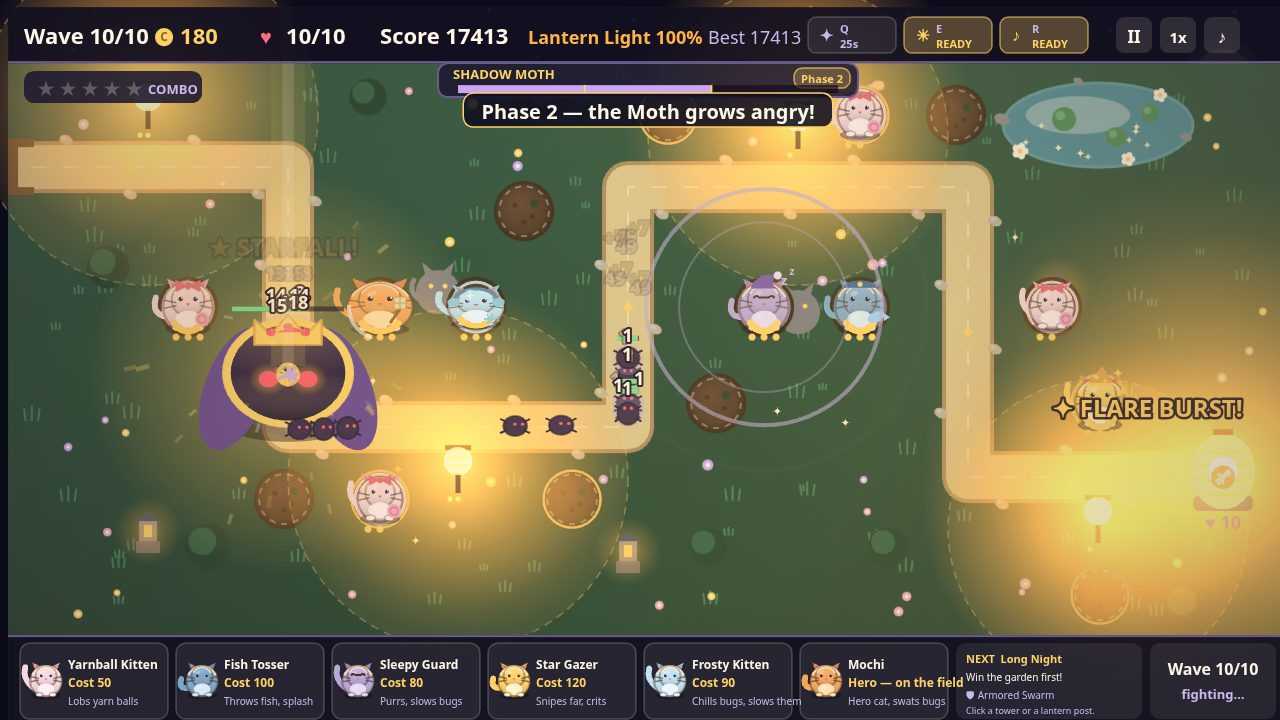
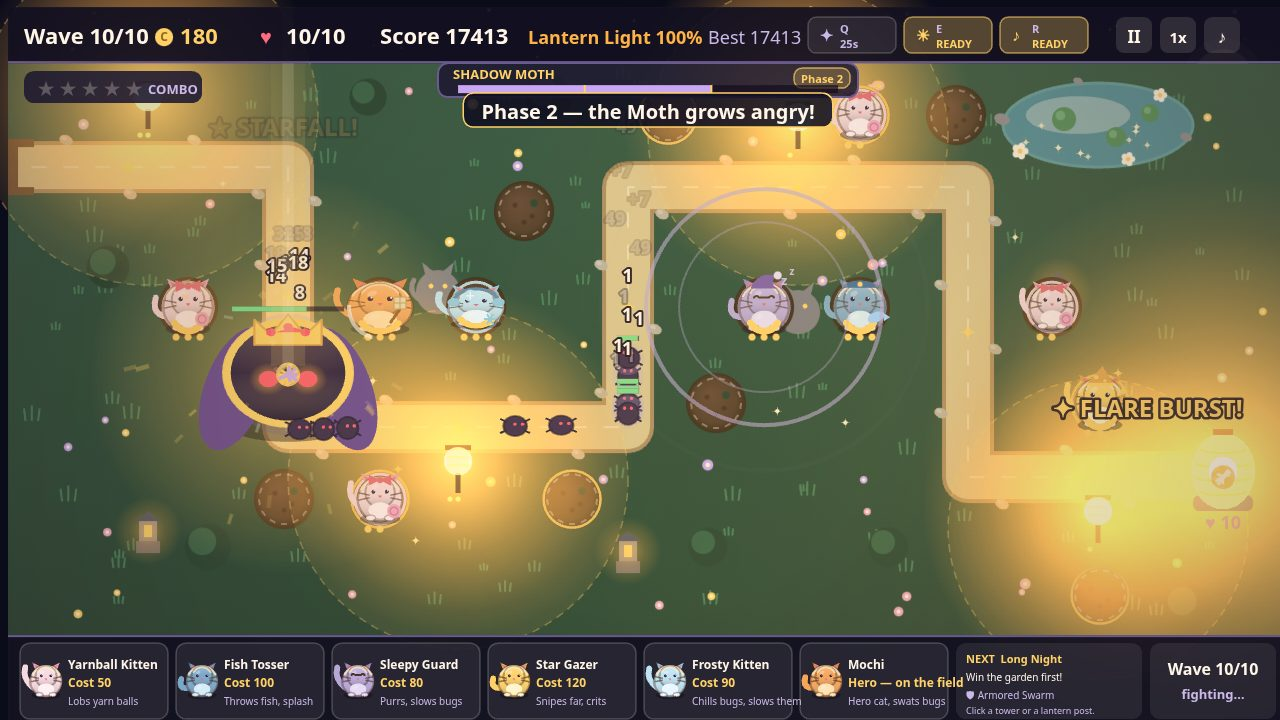
Mochi's Lantern Garden v4 FIX: festival win screen, damage-number destack, comment trims

diff --git a/game/src/render.js b/game/src/render.js
@@ -1,9 +1,5 @@
-// Drawing only: the world's state and the current screen in, pixels out. The
-// 1280x720 playfield is scaled to fit the window and centred. Warm lantern glow
-// against the cool night, round cute shapes, thick outlines — crispness comes
-// from light and geometry, not saturation. Every tower and bug type reads at a
-// glance: each cat has its own body colour, hat and held item, each bug its own
-// size, colour and shape, and the boss carries its own rim light.
+// Drawing only: world state in, pixels out. Warm lantern glow on cool night;
+// crispness from light and geometry, not saturation.
 import { ABILITIES, ABILITY_ORDER, DIFFICULTIES, FIELD, FONT, LAYOUT, MAX_POST_LEVEL, MUTATORS, PALETTE, POST_LEVELS, POST_UPGRADE_COST } from './config.js';
 import { LANTERN, LANTERN_POSTS, PATH_POINTS, PATH_WIDTH, POND, postGlowRadius } from './garden.js';
 import { PHASE_BUILD, PHASE_WAVE } from './world.js';
@@ -38,11 +34,7 @@ export function createRenderer(canvas) {
   const livesLabel = cachedLabel('');
   const scoreLabel = cachedLabel('Score ');
   const lightLabel = cachedLabel('Lantern Light ');
-  // Performance (v4, Lead's call): the headless judge runs on software
-  // rendering, where a fresh radial gradient per glow per frame cost us
-  // 3.7 fps and 0.34x sim speed — a losing entry before it is even judged.
-  // Every gradient below is built ONCE and reused; glows are one pre-rendered
-  // sprite stamped with drawImage. Same look, a fraction of the frame cost.
+  // Perf: gradients built once and reused; glows are one stamped sprite.
   const glowSprite = (() => {
     const s = document.createElement('canvas');
     s.width = 256;
@@ -1632,9 +1624,7 @@ export function createRenderer(canvas) {
     drawEnemies(world);
     drawProjectiles(world);
     drawEffects(world);
-    // The festival wash and the flash overlay: gold over the field only (the
-    // HUD is drawn after, so it stays readable). Thinned in v4 — a wash that
-    // is too strong turns the whole frame into pastel haze.
+    // Festival wash + flash: gold over the field only; HUD stays readable.
     if (festival > 0) {
       context.save();
       context.globalAlpha = festival;

diff --git a/game/src/effects.js b/game/src/effects.js
@@ -1,7 +1,4 @@
-// Juice: pooled particles, floating damage numbers, expanding purr rings, swat arcs
-// and trauma-based screen shake. All pools are allocated once at boot; nothing here
-// allocates per frame. Shake is trauma squared, so light hits barely move and the
-// boss's hits punch.
+// Juice: pooled particles, floating numbers, rings, arcs, trauma shake.
 import { FIELD, POOL } from './config.js';
 
 export function createEffects(random) {
@@ -56,18 +53,25 @@ export function createEffects(random) {
   }
 
   function spawnText(x, y, text, color, size) {
+    const big = (size ?? 14) >= 20;
+    let live = 0;
+    for (let i = 0; i < texts.length; i += 1) if (texts[i].active) live += 1;
+    if (!big && live >= 40) return;
     let slot = null;
     for (let i = 0; i < texts.length; i += 1) {
       if (!texts[i].active) { slot = texts[i]; break; }
     }
     if (slot === null) slot = texts[0];
     slot.active = true;
-    // Spread same-target numbers so they never stack into one blob, and clamp
-    // long callouts (FLARE BURST!, LANTERN SURGE!) inside the field — v3/v4
-    // screenshots caught them running off the right edge. The clamp leaves
-    // room for the widest callouts (28px "THE SHADOW MOTH!" ≈ 250px wide).
+    // Clamp callouts inside the field; stack numbers that would land on the
+    // same spot (FIX-2: dense moments stacked "144/1518" into one blob).
     slot.x = Math.max(140, Math.min(FIELD.width - 140, x + (random() - 0.5) * 28));
-    slot.y = y;
+    let stack = 0;
+    for (let i = 0; i < texts.length; i += 1) {
+      const t = texts[i];
+      if (t.active && t !== slot && Math.abs(t.x - slot.x) < 48 && Math.abs(t.y - y) < 36) stack += 1;
+    }
+    slot.y = y - 20 * stack;
     slot.life = 0.8;
     slot.maxLife = 0.8;
     slot.text = text;

diff --git a/game/src/screens.js b/game/src/screens.js
@@ -89,7 +89,15 @@ export function drawPaused(ctx, textFn) {
 }
 
 export function drawWin(ctx, textFn, world, best) {
-  panel(ctx, textFn, 290, 80, 700, 520);
+  // Festival relight (FIX-1, Nemotron): lighter dim + warm halo, like the title.
+  panel(ctx, textFn, 290, 80, 700, 520, 0.55);
+  const halo = ctx.createRadialGradient(640, 350, 60, 640, 350, 480);
+  halo.addColorStop(0, 'rgba(255, 209, 102, 0)');
+  halo.addColorStop(0.6, 'rgba(255, 209, 102, 0.06)');
+  halo.addColorStop(0.8, 'rgba(255, 209, 102, 0.16)');
+  halo.addColorStop(1, 'rgba(255, 209, 102, 0)');
+  ctx.fillStyle = halo;
+  ctx.fillRect(0, 0, FIELD.width, FIELD.height);
   textFn('★ YOU WIN ★', 640, 138, 26, '#ffd166', 'center', true);
   textFn('The garden blooms!', 640, 205, 48, '#ffd166', 'center', true);
   textFn('Mochi held the garden through all 10 waves.', 640, 236, 19, PALETTE.text, 'center');

diff --git a/game/src/shots.js b/game/src/shots.js
@@ -178,6 +178,15 @@ export function stageShot(name, world) {
   }
   // win
   runUntil(world, (state) => state.phase === PHASE_WON || state.phase === PHASE_LOST);
+  // Festival behind the win panel (FIX-1, Nemotron): relight the garden and
+  // step ~0.6s — long enough for bursts to spread, short enough that the
+  // freshest fireworks are still alight when the frame freezes.
+  world.state.festival = 1;
+  for (let i = 0; i < 0.6 / STEP; i += 1) world.step(STEP, true);
+  // Fresh starbursts in the top corners, outside the panel — the cascade
+  // bursts have faded by the frame, these are still at full alpha.
+  world.fx.spawnBurst(150, 140, '#ffd166', 24, 160, 0.9, 6);
+  world.fx.spawnBurst(1130, 140, '#ff9ec6', 24, 160, 0.9, 6);
   const won = world.state.phase === PHASE_WON;
   return { screen: won ? SCREEN_WIN : SCREEN_OVER, best: world.state.score };
 }

diff --git a/game/src/world.js b/game/src/world.js
@@ -482,8 +482,7 @@ export function createWorld(random) {
       for (let i = 0; i < enemies.phaseEvents.length; i += 1) {
         const { enemy, phase } = enemies.phaseEvents[i];
         events |= EVENT_BOSS_PHASE;
-        // Short banners (v4 fix): the v3 messages were long enough to run off
-        // the panel and overlap the boss bar. Two short lines, on a pill.
+        // Short banners: v3 lines ran off the panel and overlapped the boss bar.
         state.message = phase === 3
           ? 'Phase 3 — it flies! Only fish & star cats can hit it!'
           : 'Phase 2 — the Moth grows angry!';
